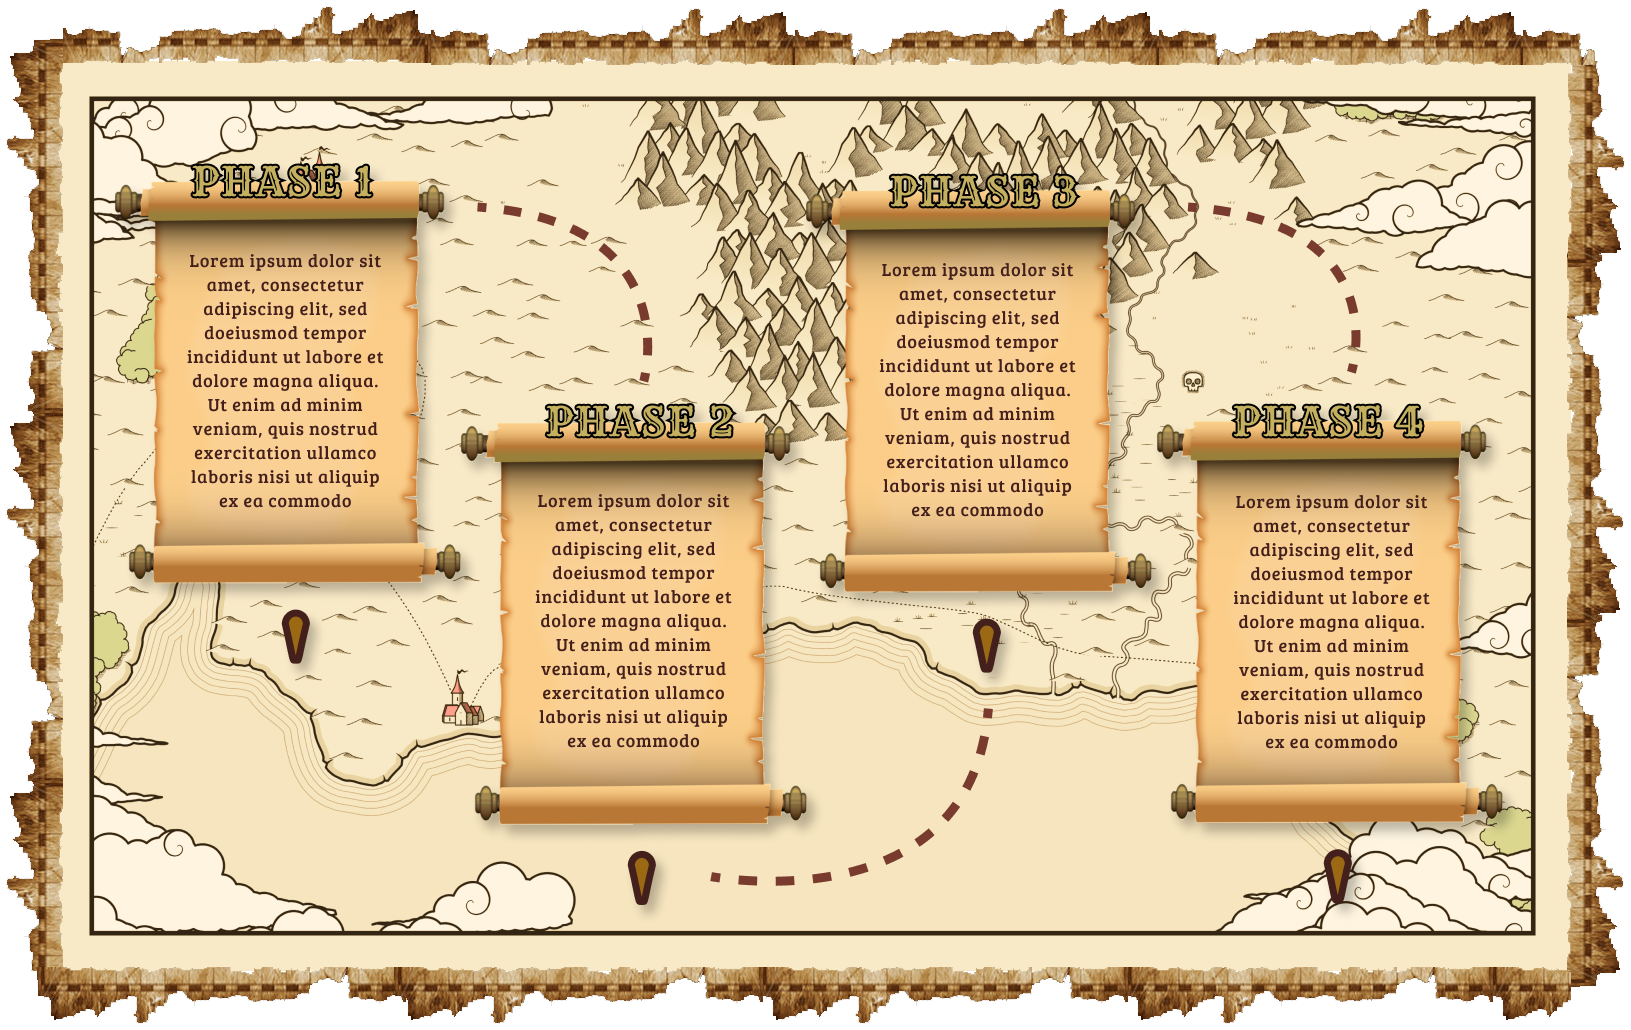
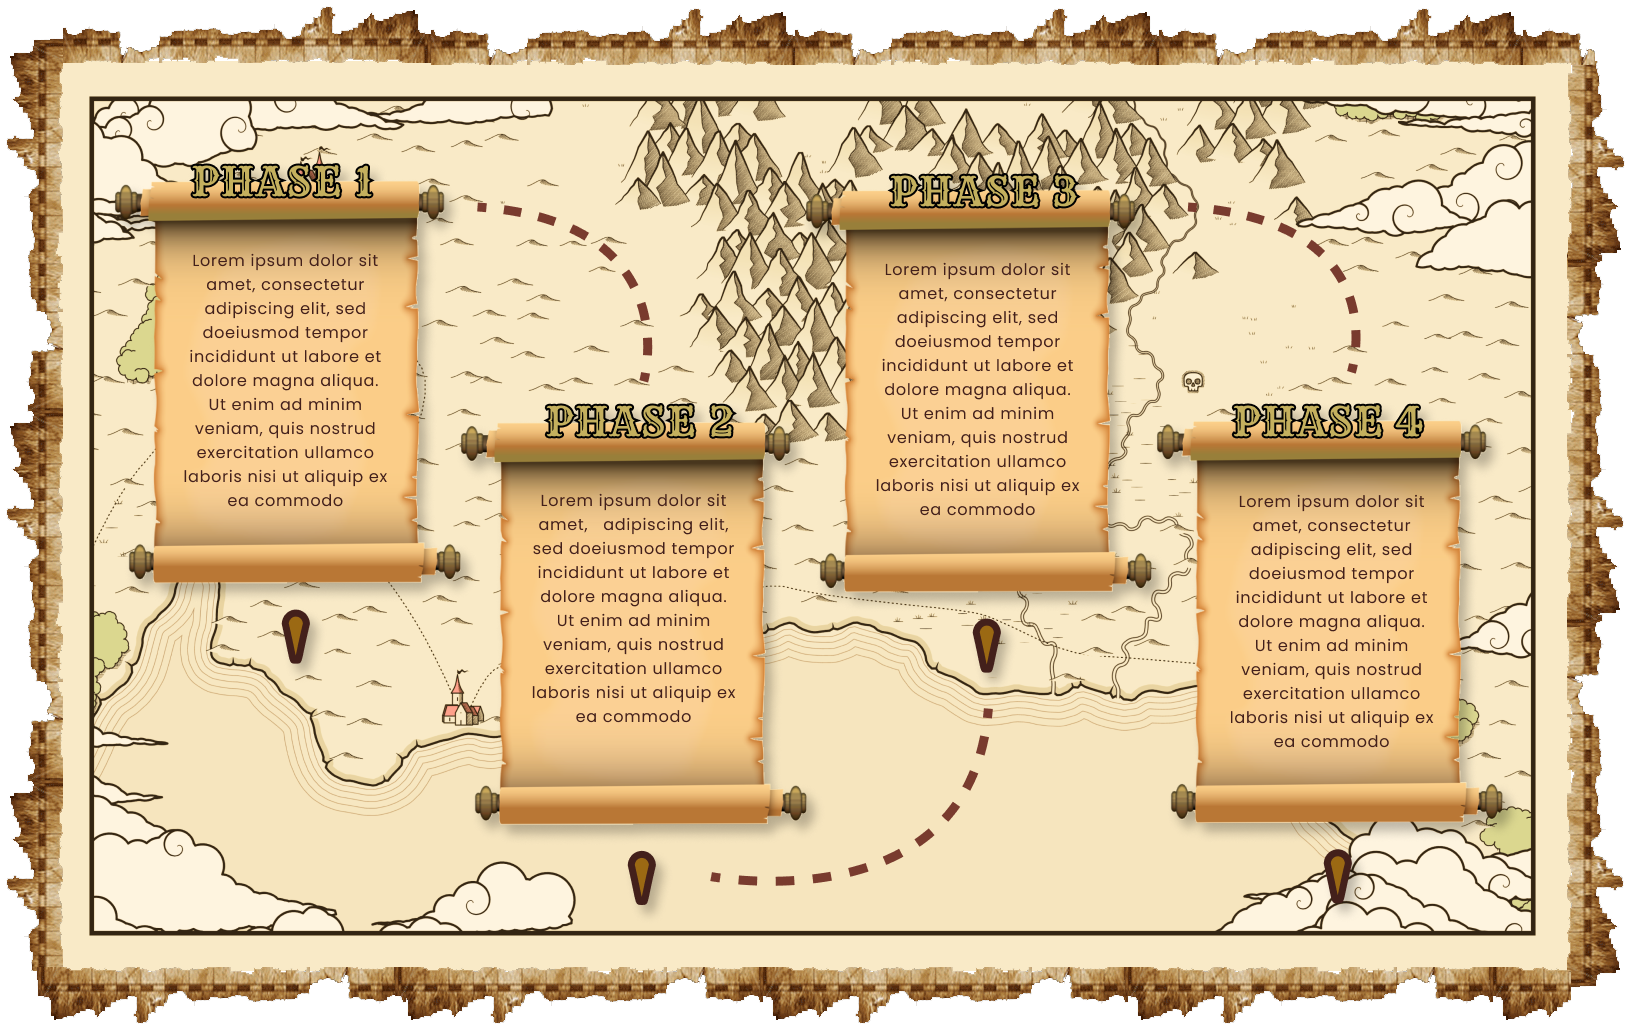
poppins

diff --git a/src/components/History.jsx b/src/components/History.jsx
@@ -49,7 +49,7 @@ const History = () => {
                 <div className='w-full flex items-center justify-center flex-col gap-y-10'>
                     <motion.h1 initial={{opacity: 0}} animate={ titleView ? {opacity: 100} : {}} transition={{duration: 0.5}} className='font-aot lg:text-6xl text-4xl w-[15rem] text-center lg:leading-[4rem] leading-[3rem]' ref={titleRef}>In a City Surrounded By titans</motion.h1>
 
-                    <motion.div initial={{opacity: 0}} animate={ secView ? {opacity: 100} : {}} transition={{duration: 0.5}} className='font-noto flex flex-col gap-y-10 max-w-[30rem] lg:max-w-[18rem] xl:max-w-[24rem] text-justify font-medium lg:text-lg text-sm text-white' ref={secRef}>
+                    <motion.div initial={{opacity: 0}} animate={ secView ? {opacity: 100} : {}} transition={{duration: 0.5}} className='font-pop flex flex-col gap-y-10 max-w-[30rem] lg:max-w-[18rem] xl:max-w-[24rem] text-justify lg:text-lg text-sm text-white' ref={secRef}>
                         <p className='indent-7'>Lorem ipsum dolor sit amet, consectetur adipiscing elit, sed doeiusmod tempor incididunt ut labore et dolore magna aliqua. Ut enim ad minim veniam, quis nostrud exercitation ullamco laboris nisi ut aliquip ex ea commodo consequat. </p>
                         <p>Lorem ipsum dolor sit amet, consectetur adipiscing elit, sed doeiusmod tempor incididunt ut labore et dolore magna aliqua. Ut enim ad minim veniam, quis nostrud exercitation ullamco laboris nisi ut aliquip ex ea commodo consequat. </p>
 

diff --git a/src/components/hero.jsx b/src/components/hero.jsx
@@ -56,7 +56,7 @@ const Hero = () => {
                 <div className='w-fit h-[65%] bg-cover font-noto text-main sm:px-14 pt-14 xl:pt-16 flex absolute mx-auto left-0 right-0 sm:left-auto sm:right-auto bottom-0'>
                     <div className='max-w-[1580px] w-full mx-auto'>
                         <div className=' w-full mx-auto z-10 relative'>
-                            <motion.p initial={{ opacity: 0 }} animate={{ opacity: 100 }} transition={{ duration: 1, delay: 0.9 }} className='md:max-w-[550px] xl:text-lg md:text-sm text-xs max-w-[290px] leading-4 text-center sm:text-left mx-auto'>
+                            <motion.p initial={{ opacity: 0 }} animate={{ opacity: 100 }} transition={{ duration: 1, delay: 0.9 }} className='md:max-w-[550px] xl:text-lg md:text-sm text-xs max-w-[290px] leading-4 text-center sm:text-left mx-auto font-pop'>
                                 Lorem ipsum dolor sit amet, consectetur adipiscing elit, sed doeiusmod tempor incididunt ut labore et dolore magna aliqua. Ut enim ad minim veniam, quis nostrud exercitation ullamco laboris nisi ut aliquip ex ea commodo consequat. Duis aute irure dolor in reprehenderit in voluptate velit esse cillum dolore eu fugiat nulla pariatur. Excepteur sint occaecat cupidatat non proident, sunt in culpa qui officia deserunt mollit anim id est laborum.
                             </motion.p>
 

diff --git a/src/templates/Card.jsx b/src/templates/Card.jsx
@@ -16,7 +16,7 @@ const Card = ({ title, subheader, number, message }) => {
                     <p className='uppercase'>{subheader}</p>
                     <p>{number}</p>
                 </div>
-                <p className='text-button font-noto text-justify indent-7 mt-6 text-sm'>Lorem ipsum dolor sit amet, consectetur adipiscing elit, sed doeiusmod tempor incididunt ut labore et dolore magna aliqua. Ut enim ad minim veniam, quis nostrud exercitation ullamco laboris nisi ut aliquip ex ea commodo consequat. </p>
+                <p className='text-button font-pop text-justify indent-7 mt-6 text-lg'>Lorem ipsum dolor sit amet, consectetur adipiscing elit, sed doeiusmod tempor incididunt ut labore et dolore magna aliqua. Ut enim ad minim veniam, quis nostrud exercitation ullamco laboris nisi ut aliquip ex ea commodo consequat. </p>
             </div>
         </motion.div>
     )

diff --git a/src/templates/Phase.jsx b/src/templates/Phase.jsx
@@ -12,7 +12,7 @@ const Phase = ({ text }) => {
                 <h1 className='font-rye text-center absolute top-0 left-0 right-0 mx-auto text-button text-3xl uppercase'>
                     {text}
                 </h1>
-                <p className='text-button text-center'>
+                <p className='text-button text-center font-pop'>
                     Lorem ipsum dolor sit amet, consectetur adipiscing elit, sed doeiusmod tempor incididunt ut labore et dolore magna aliqua. Ut enim ad minim veniam, quis nostrud exercitation ullamco laboris nisi ut aliquip ex ea commodo
                 </p>
             </div>

diff --git a/src/index.css b/src/index.css
@@ -1,4 +1,5 @@
 @import url('https://fonts.googleapis.com/css2?family=Bree+Serif&family=Noto+Sans:wght@100;200;300;400;500;600;700;900&family=Rye&display=swap');
+@import url('https://fonts.googleapis.com/css2?family=Poppins:wght@100;200;300;400;500;600;700;800;900&display=swap');
 
 @tailwind base;
 @tailwind components;
